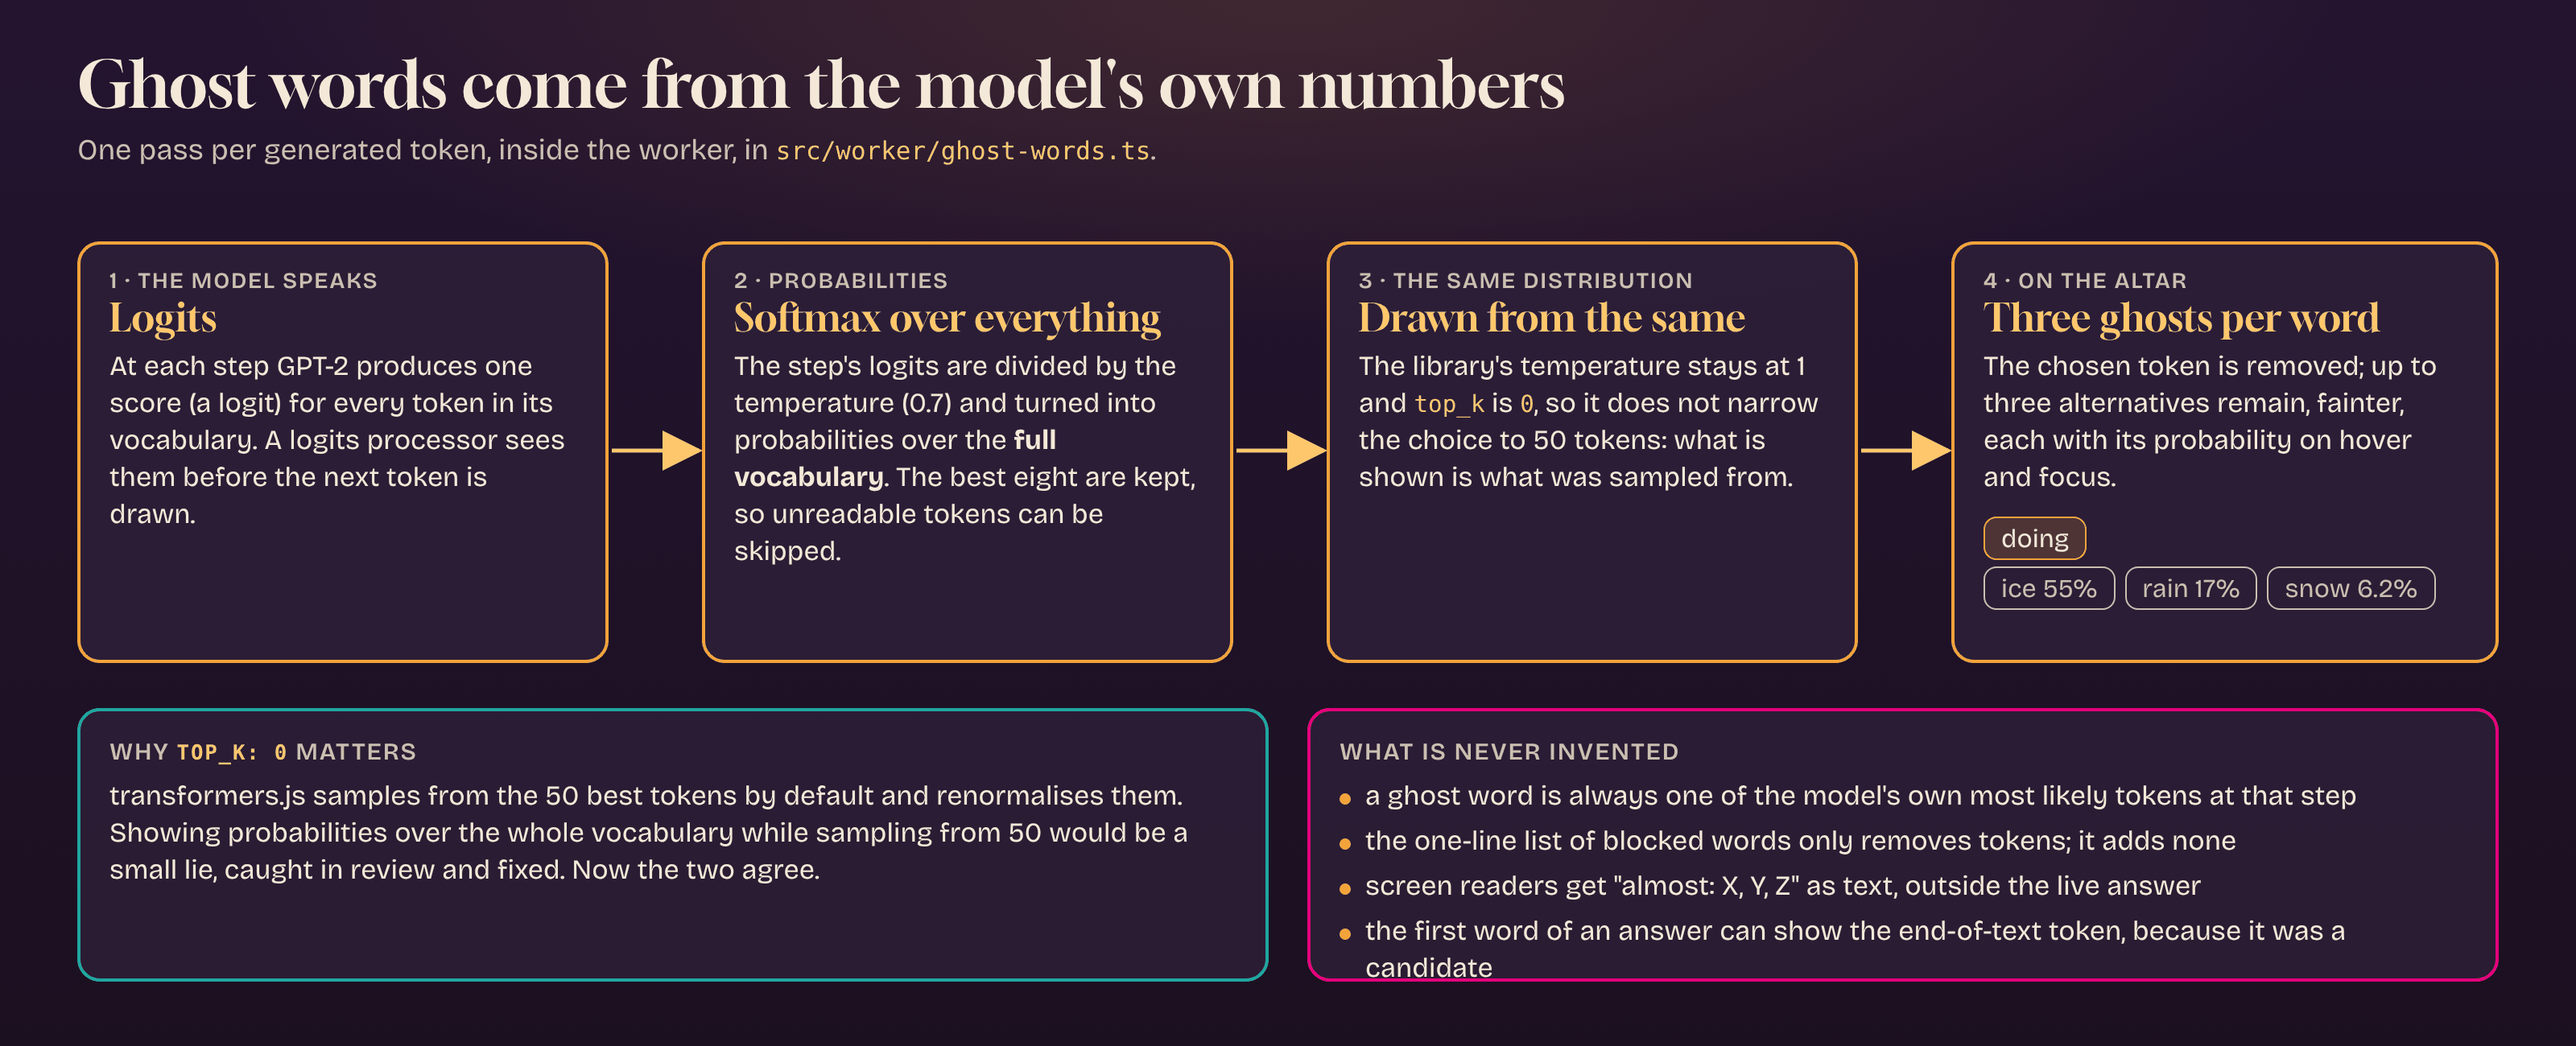
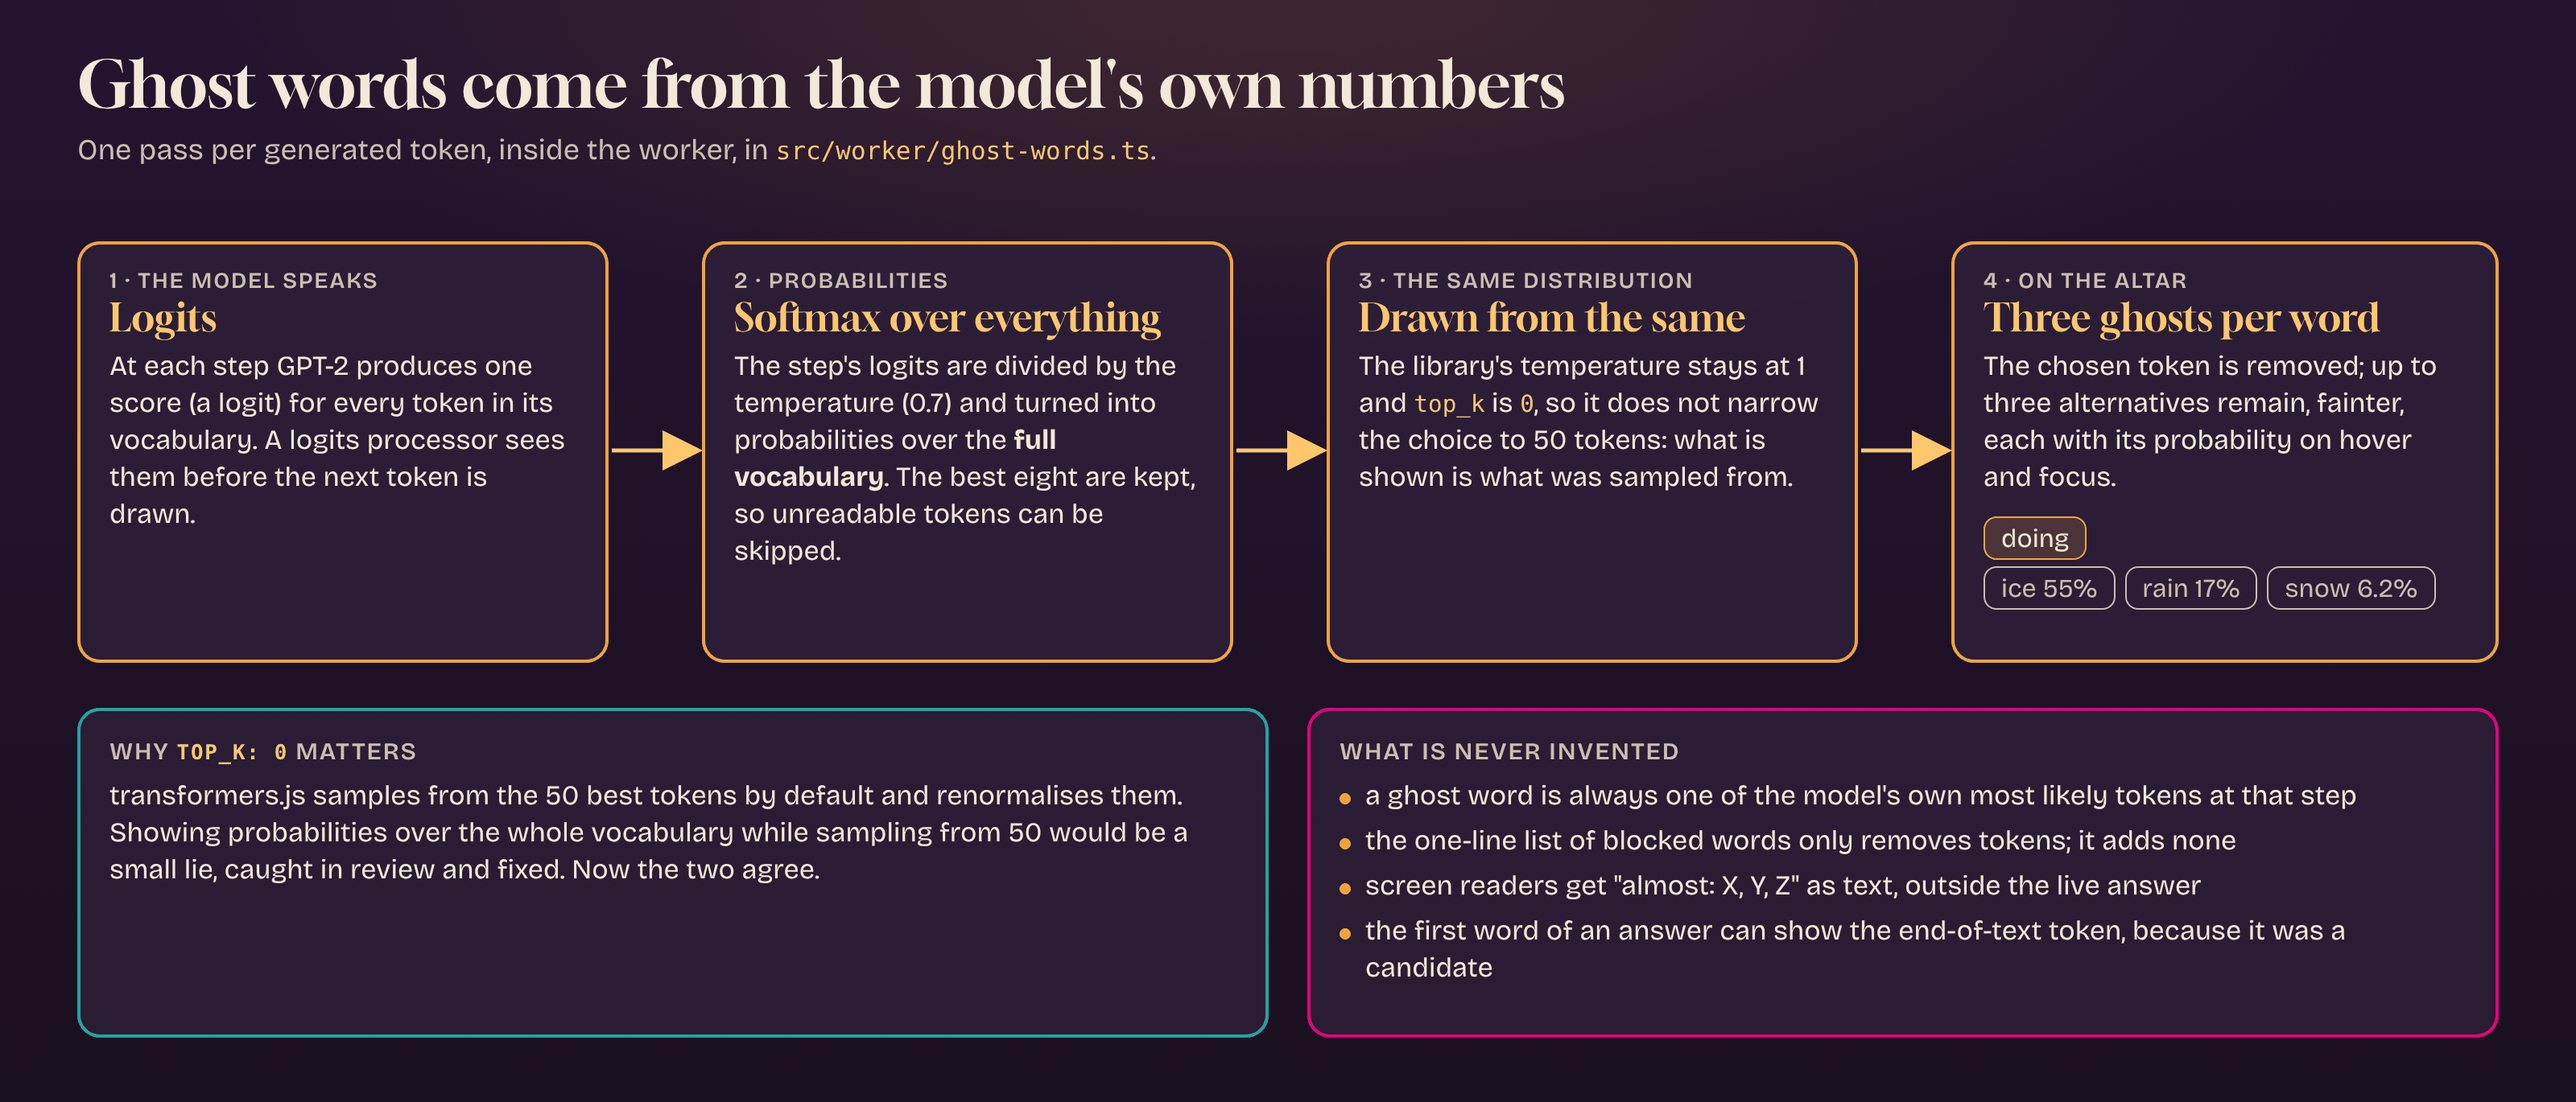
docs(images): give the ghost-word diagram room for its last bullet
Claude-Session: https://claude.ai/code/session_01G6fYgKuBduTDy5XHSnkxE6

diff --git a/docs/images/src/ghost-words.html b/docs/images/src/ghost-words.html
@@ -7,7 +7,7 @@
     <style>
       .canvas {
         width: 1600px;
-        height: 650px;
+        height: 685px;
       }
       .stage {
         position: absolute;
@@ -100,7 +100,7 @@
         </div>
       </div>
 
-      <svg class="arrows" width="1600" height="650" viewBox="0 0 1600 650">
+      <svg class="arrows" width="1600" height="685" viewBox="0 0 1600 685">
         <defs>
           <marker id="h" markerWidth="12" markerHeight="12" refX="10" refY="6" orient="auto">
             <path d="M1 1 L11 6 L1 11 Z" class="head" />
@@ -113,7 +113,7 @@
 
       <div
         class="box"
-        style="left: 48px; top: 440px; width: 740px; height: 170px; border-color: var(--teal)"
+        style="left: 48px; top: 440px; width: 740px; height: 205px; border-color: var(--teal)"
       >
         <h3>Why <code>top_k: 0</code> matters</h3>
         <p>
@@ -124,7 +124,7 @@
       </div>
       <div
         class="box"
-        style="left: 812px; top: 440px; width: 740px; height: 170px; border-color: var(--rosa)"
+        style="left: 812px; top: 440px; width: 740px; height: 205px; border-color: var(--rosa)"
       >
         <h3>What is never invented</h3>
         <ul>
